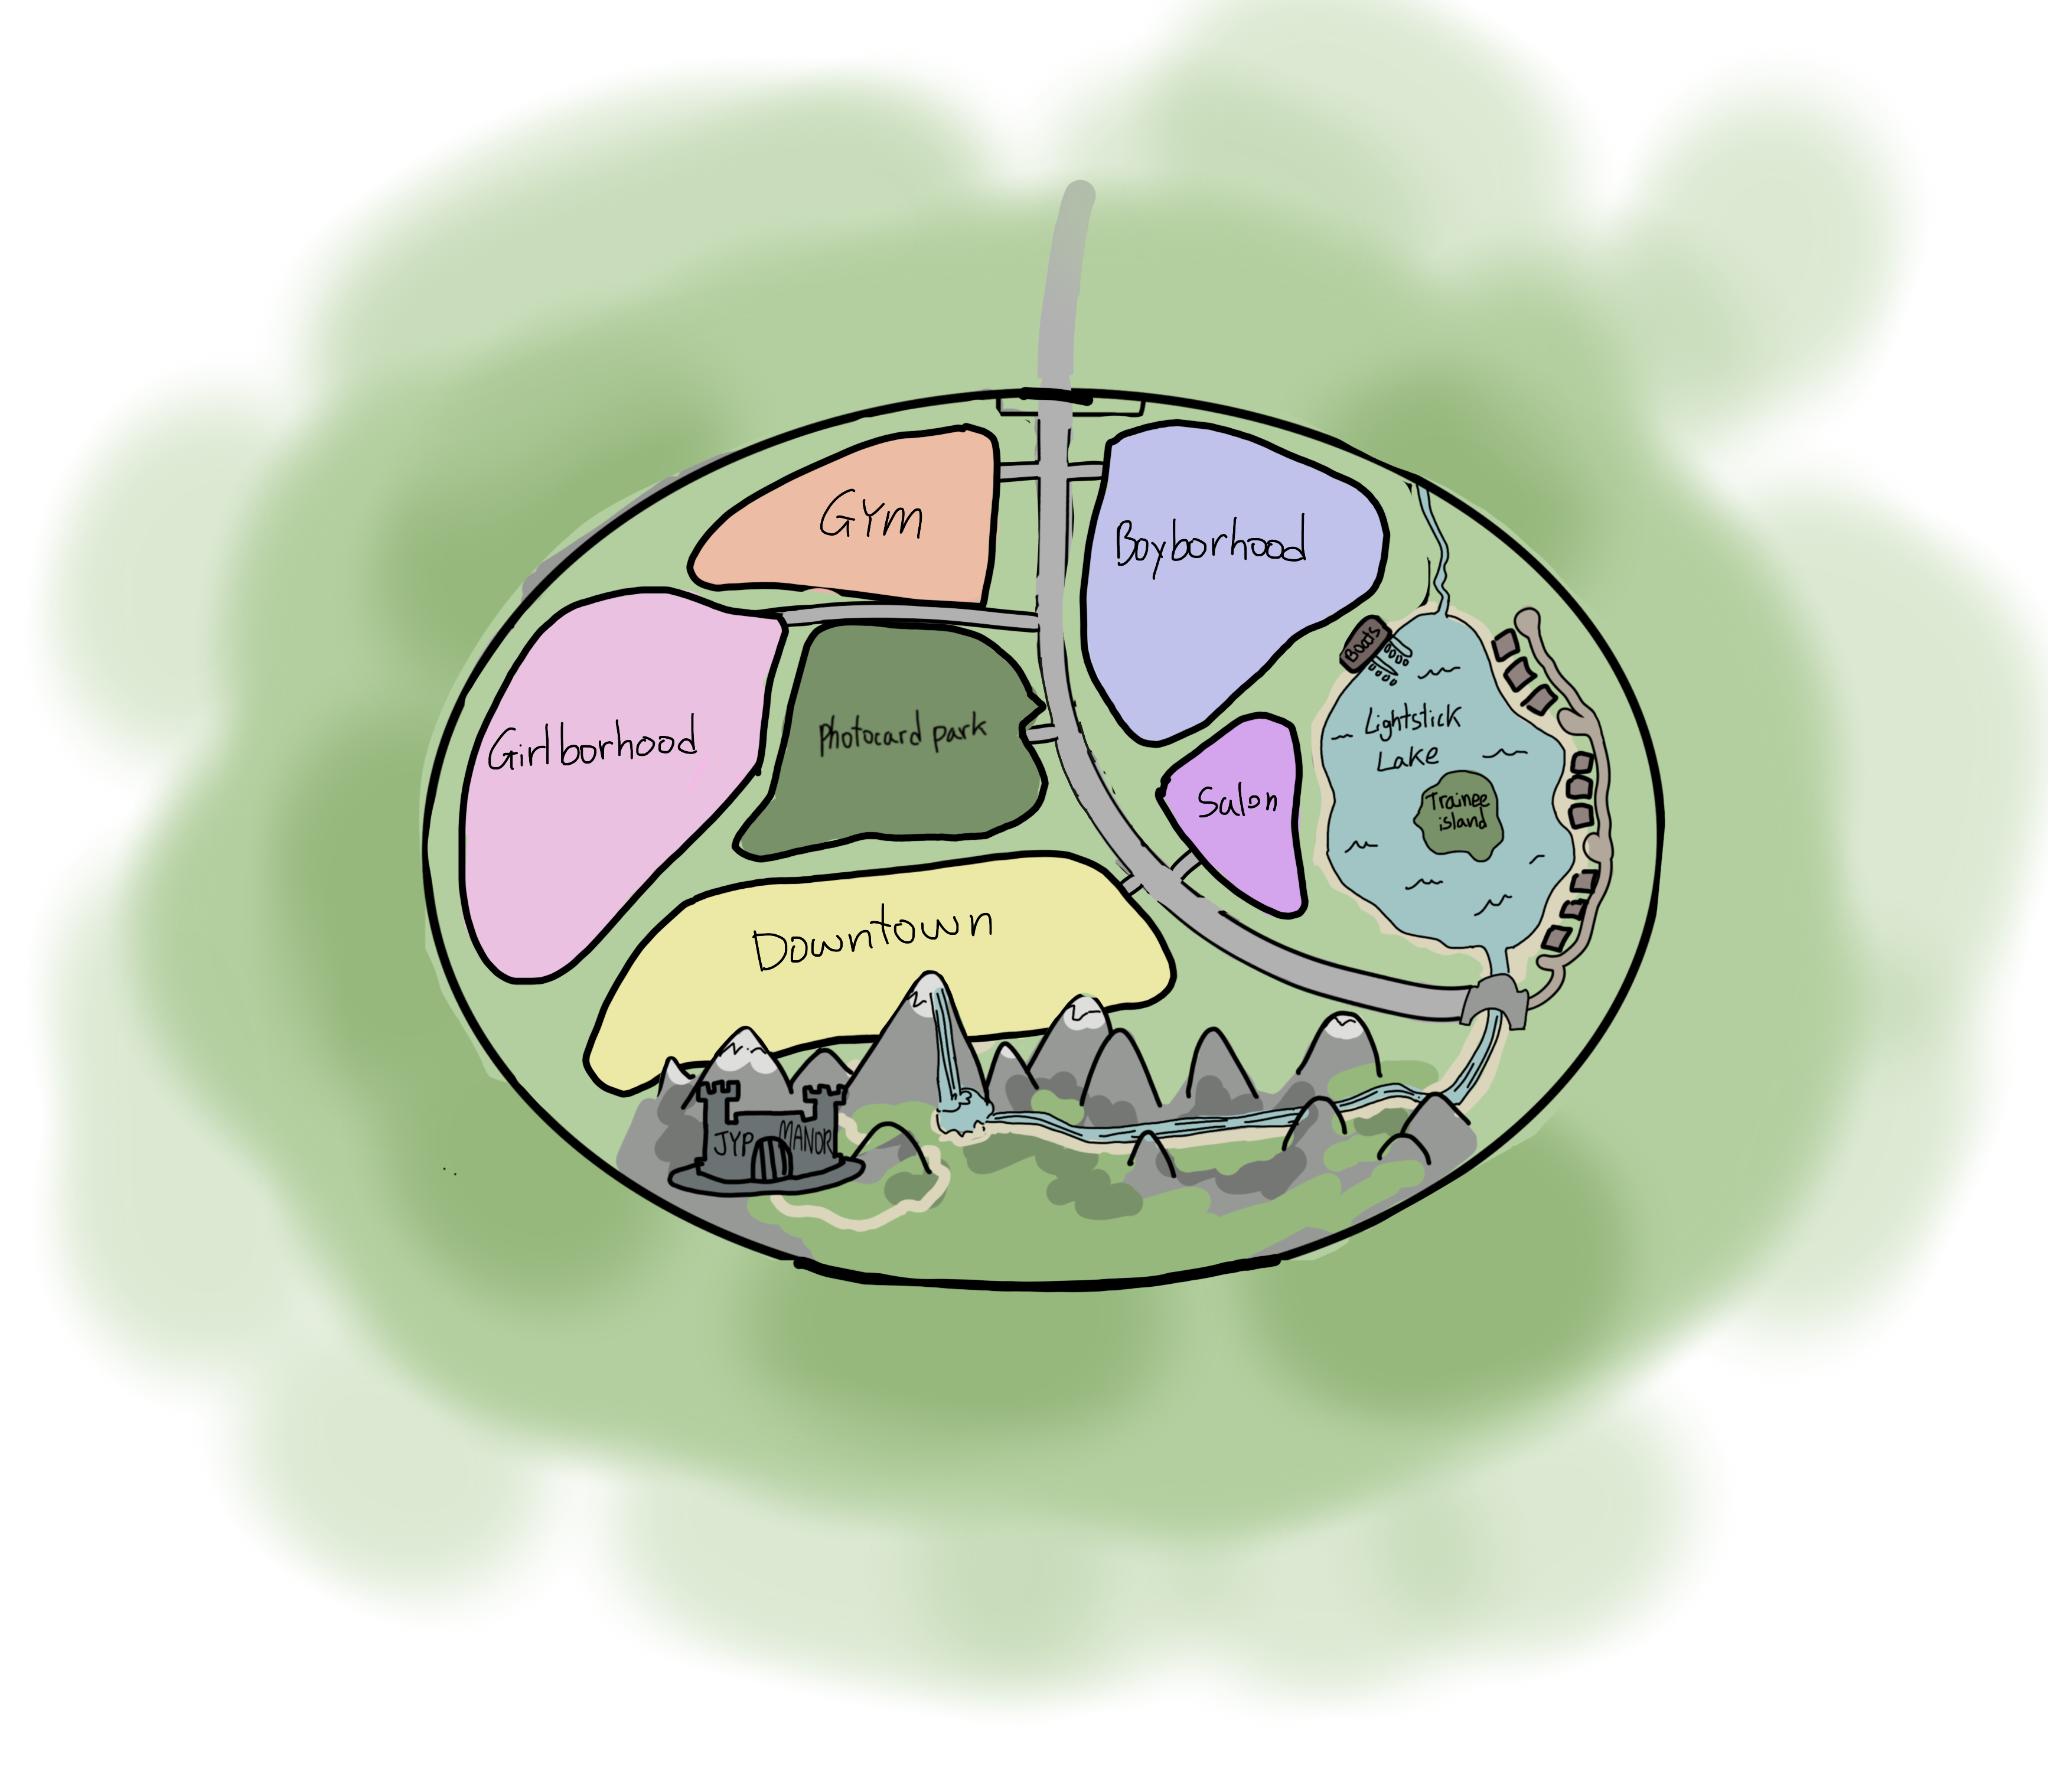
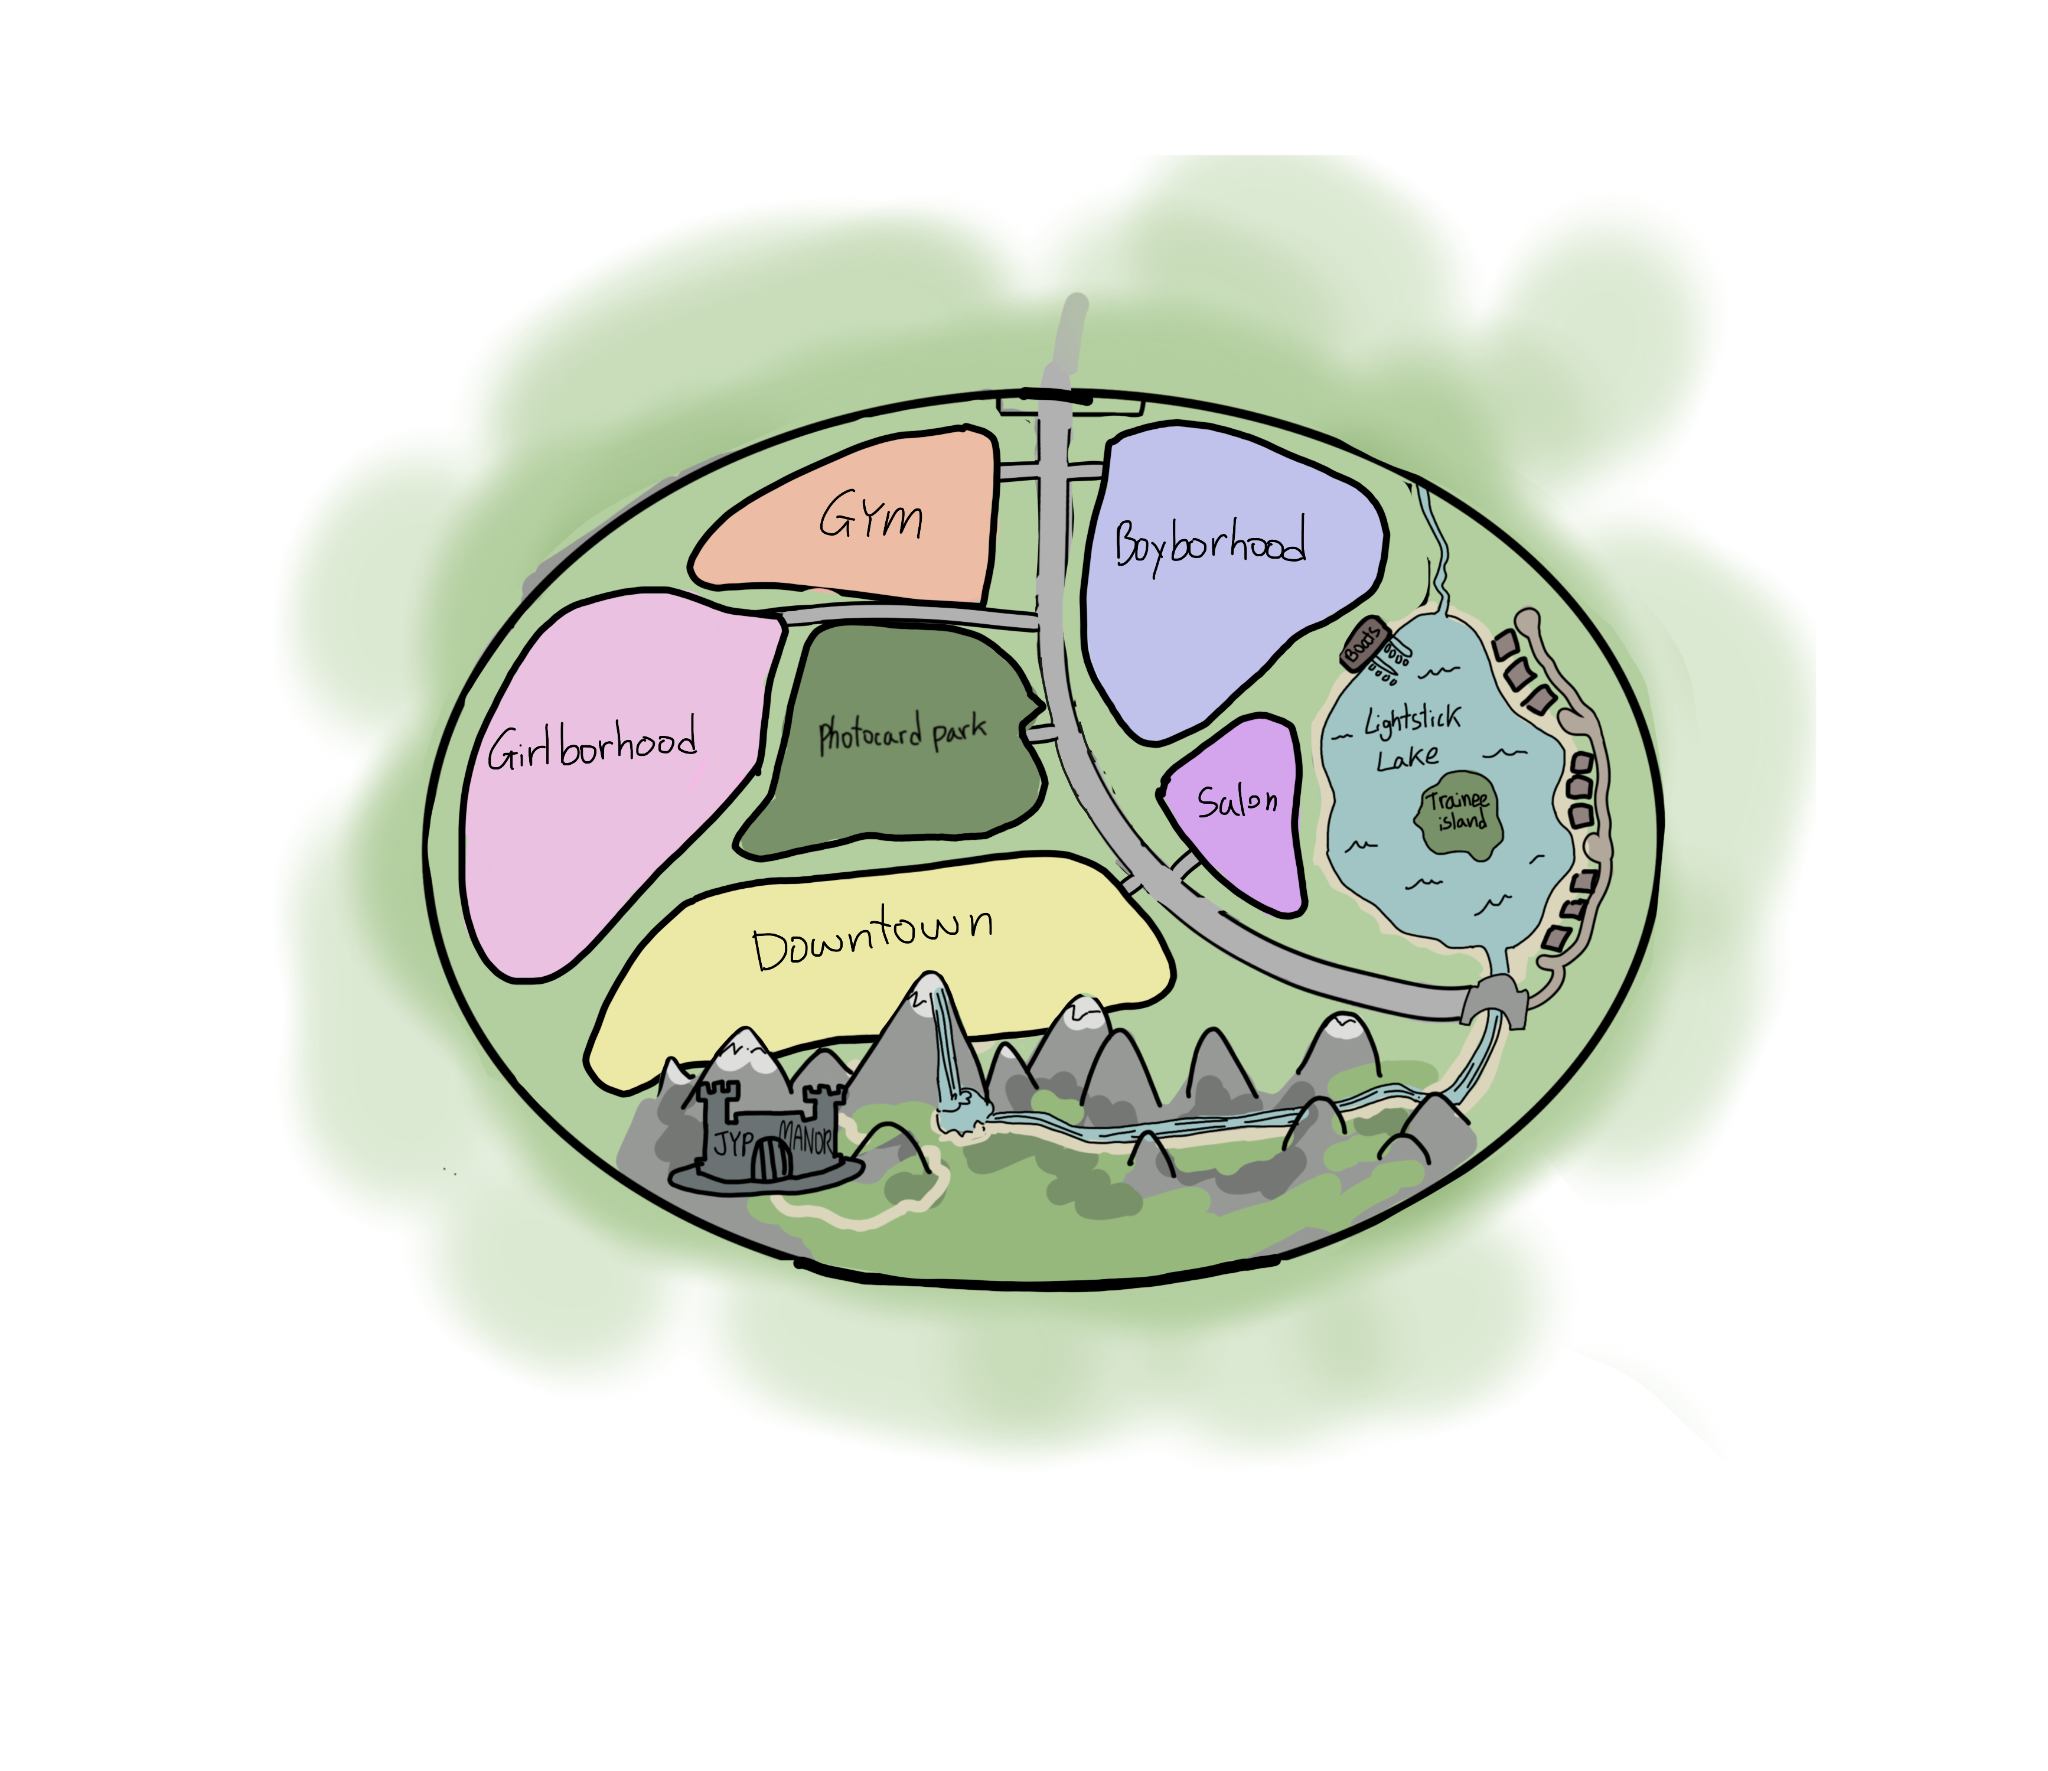
Add files via upload

diff --git a/index.html b/index.html
@@ -55,18 +55,23 @@ footer{background:#fff;padding:8px 14px;text-align:center;font:700 13px Arial,sa
 @media(min-width:1000px){#screen{padding-left:235px;}}
 @media(max-width:999px){#mission{position:relative;top:auto;left:auto;align-self:flex-start;margin:10px 12px 0;width:min(300px,calc(100% - 24px));box-shadow:none;}#screen{padding-top:16px;}}
 /* Clickable hand-drawn maps, intentionally plain. */
-.worldmap{position:relative;width:min(100%,calc(83vh * 2048 / 1423),1200px);aspect-ratio:2048 / 1423;margin:auto;}
+.worldmap{position:relative;width:min(100%,calc(90vh * 2048 / 1600),1380px);aspect-ratio:2048 / 1600;margin:auto;overflow:hidden;}
 .worldmap img{width:100%;height:100%;object-fit:cover;display:block}
 .hotspot{position:absolute;border:3px dashed transparent;background:transparent;cursor:pointer;color:transparent;box-shadow:none;padding:0}
 .hotspot:hover,.hotspot:focus-visible{border:3px dashed black;background:#ffffff55;outline:none}
-.hotspot.girl{left:18%;top:22%;width:22%;height:39%;border-radius:42%}
-.hotspot.boy{left:50%;top:16%;width:24%;height:31%;border-radius:42%}
-.hotspot.downtown{left:26%;top:45%;width:33%;height:21%;border-radius:45%}
+.hotspot.girl{left:17.5%;top:22.5%;width:23%;height:39%;border-radius:42%}
+.hotspot.boy{left:50.5%;top:16.5%;width:24%;height:31%;border-radius:42%}
+.hotspot.downtown{left:25%;top:46%;width:34%;height:21%;border-radius:45%}
 .map-caption{font-size:16px;font-weight:900;text-align:center}
-.submap{position:relative;width:min(100%,950px);height:min(58vh,540px);min-height:360px;border:4px solid #000;background:#fff;overflow:hidden}
-.road{position:absolute;background:#bbb;border:3px solid #000}.road.horizontal{top:44%;height:15%;left:0;right:0}.road.vertical{left:45%;width:11%;top:0;bottom:0}
-.house{position:absolute;width:26%;height:28%;background:#ccc;border:4px solid black;font-weight:900;font-size:clamp(13px,2.2vw,25px);padding:5px;white-space:normal}
-.house:hover{background:#a7bde3}.house.one{left:8%;top:6%}.house.two{right:8%;top:6%}.house.three{left:8%;bottom:6%}.house.four{right:8%;bottom:6%}
+.hoodmap{position:relative;width:min(100%,1200px);aspect-ratio:2048 / 1423;margin:auto;overflow:hidden}
+.hoodmap img{width:100%;height:100%;object-fit:contain;display:block}
+.hood-house{position:absolute;border:none;background:transparent;padding:0;cursor:pointer;display:block;width:17%;aspect-ratio:1 / 1;filter:none}
+.hood-house img{width:100%;height:100%;object-fit:contain;display:block;pointer-events:none}
+.hood-house .house-label{position:absolute;left:17%;right:17%;top:30%;bottom:16%;display:flex;align-items:center;justify-content:center;text-align:center;font:900 clamp(11px,1.8vw,22px) "Comic Sans MS",Arial,sans-serif;color:#000;line-height:1.05;text-shadow:0 1px 0 #ffffff88;overflow-wrap:anywhere;padding:2px}
+.hood-house:hover:not(.locked),.hood-house:focus-visible:not(.locked){transform:translateY(-2px);outline:none;filter:drop-shadow(0 3px 0 #00000022)}
+.hood-house.locked{cursor:default}
+.hood-house.locked .house-label{color:#333}
+.hood-help{font-size:15px;font-weight:900;text-align:center;margin-top:8px}
 /* Downtown: ugly old-school browser buttons, no polished cards. */
 .downtown-list{width:min(100%,840px);display:grid;grid-template-columns:repeat(3,minmax(0,1fr));gap:16px;}
 .downtown-place{background:#d3d3d3;border:4px solid #000;border-radius:0;font:900 clamp(16px,2.4vw,27px) "Comic Sans MS",Arial,sans-serif;min-height:125px;padding:12px 8px;overflow-wrap:anywhere;}
@@ -81,7 +86,7 @@ footer{background:#fff;padding:8px 14px;text-align:center;font:700 13px Arial,sa
 .hotspot.dtclub{left:2%;top:72%;width:36%;height:26%;border-radius:8%}
 .hotspot.dtbakery{left:46%;top:75%;width:16%;height:19%;border-radius:10%}
 @media(max-width:700px){.downtown-list{grid-template-columns:repeat(2,minmax(0,1fr));}.downtown-place{min-height:100px;}}
-@media(max-width:600px){.worldmap{width:100%}.submap{min-height:320px}.house{border-width:2px}}
+@media(max-width:600px){.worldmap{width:100%}.hood-house{width:19%}.hood-house .house-label{font-size:10px}}
 /* Two-person dialogue, deliberately plain. */
 .dialogue-scene{width:min(100%,1050px);display:flex;flex-direction:column;align-items:stretch;gap:0}
 .portrait-row{display:flex;align-items:flex-end;justify-content:center;width:100%;height:min(52vh,420px);min-height:220px;gap:12px}
@@ -265,7 +270,7 @@ function updateMission(){
  map:['Explore Kpopville','Click Boyborhood or Girlborhood on the map.'],
  downtown:['Explore Downtown','Choose a location to visit.'],
  'downtown-place':['Explore Downtown','Return to Downtown when you are ready.'],
- neighborhood:['Visit a house','Click a house in '+(state.area==='girls'?'Girlborhood.':'Boyborhood.')],
+ neighborhood:['Visit a house','Blue houses are clickable. Gray houses are locked.'],
  house:['Look around the house','Go back to the neighborhood when you are done.'],
  'enhypen-dialogue':['Talk to ENHYPEN','Click Next to continue the conversation.'],
  location:['Explore this location','Return to the map when ready.']
@@ -307,11 +312,65 @@ if(state.downtownPlace==='plaza'){
 }
 }
 else if(state.scene==='neighborhood'){
-center();let girls=state.area==='girls';add(el('h1','big',girls?'GIRLBORHOOD':'BOYBORHOOD'));
-let map=el('div','submap');map.append(el('div','road horizontal'),el('div','road vertical'));
-(girls?['ILLIT','TWICE','LE SSERAFIM','AESPA']:['ENHYPEN','TXT','BTS','STRAY KIDS']).forEach((name,i)=>{
-let b=btn(name,()=>{state.house=name;if(name==='ENHYPEN'){state.dialogueIndex=0;go('enhypen-dialogue')}else{go('house')}},'house '+['one','two','three','four'][i]);map.append(b)});
-add(map,el('p','map-caption','TEMPORARY HOUSES. DRAW YOUR OWN NEIGHBORHOOD MAP LATER.'),btn('Back to Kpopville map',()=>go('map'),'secondary'));
+center();
+const girls=state.area==='girls';
+const groups=girls
+ ? [
+   {name:'ILLIT',unlocked:true},
+   {name:'LE SSERAFIM',unlocked:true},
+   {name:'AESPA',unlocked:false},
+   {name:'TWICE',unlocked:false},
+   {name:'IVE',unlocked:false},
+   {name:'BLACKPINK',unlocked:false},
+   {name:'ITZY',unlocked:false},
+   {name:'NMIXX',unlocked:false},
+   {name:'NEWJEANS',unlocked:false},
+   {name:'RED VELVET',unlocked:false},
+   {name:'BABYMONSTER',unlocked:false},
+   {name:'KATSEYE',unlocked:false}
+ ]
+ : [
+   {name:'ENHYPEN',unlocked:true},
+   {name:'TXT',unlocked:true},
+   {name:'BTS',unlocked:false},
+   {name:'STRAY KIDS',unlocked:false},
+   {name:'SEVENTEEN',unlocked:false},
+   {name:'ATEEZ',unlocked:false},
+   {name:'NCT 127',unlocked:false},
+   {name:'RIIZE',unlocked:false},
+   {name:'TWS',unlocked:false},
+   {name:'TREASURE',unlocked:false},
+   {name:'BOYNEXTDOOR',unlocked:false},
+   {name:'SHINee',unlocked:false}
+ ];
+const positions=[
+ {left:2.5,top:1.5},{left:22.5,top:1.5},{left:42.5,top:1.5},{left:62.5,top:1.5},
+ {left:6,top:32.5},{left:25,top:32.5},{left:54,top:32.5},{left:73,top:32.5},
+ {left:6,top:67},{left:25,top:67},{left:54,top:67},{left:73,top:67}
+];
+add(el('h1','big',girls?'GIRLBORHOOD':'BOYBORHOOD'));
+let map=el('div','hoodmap');
+let img=document.createElement('img');img.src='neighborhood-bg.png';img.alt='Neighborhood background with roads';map.append(img);
+groups.forEach((group,i)=>{
+ const pos=positions[i];
+ let b=document.createElement('button');
+ b.className='hood-house'+(group.unlocked?'':' locked');
+ b.style.left=pos.left+'%';
+ b.style.top=pos.top+'%';
+ b.title=group.unlocked?('Enter '+group.name):(group.name+' is locked');
+ b.setAttribute('aria-label',b.title);
+ if(!group.unlocked) b.disabled=true;
+ const icon=document.createElement('img');
+ icon.src=group.unlocked?'house-blue.png':'house-gray.png';
+ icon.alt='';
+ const label=el('span','house-label',group.name);
+ b.append(icon,label);
+ if(group.unlocked){
+   b.onclick=()=>{state.house=group.name;if(group.name==='ENHYPEN'){state.dialogueIndex=0;go('enhypen-dialogue')}else{go('house')}};
+ }
+ map.append(b);
+});
+add(map,el('p','hood-help','BLUE HOUSES ARE CLICKABLE. GRAY HOUSES ARE LOCKED FOR NOW.'),btn('Back to Kpopville map',()=>go('map'),'secondary'));
 }
 else if(state.scene==='enhypen-dialogue'){showEnhypenDialogue()}
 else if(state.scene==='house'){
